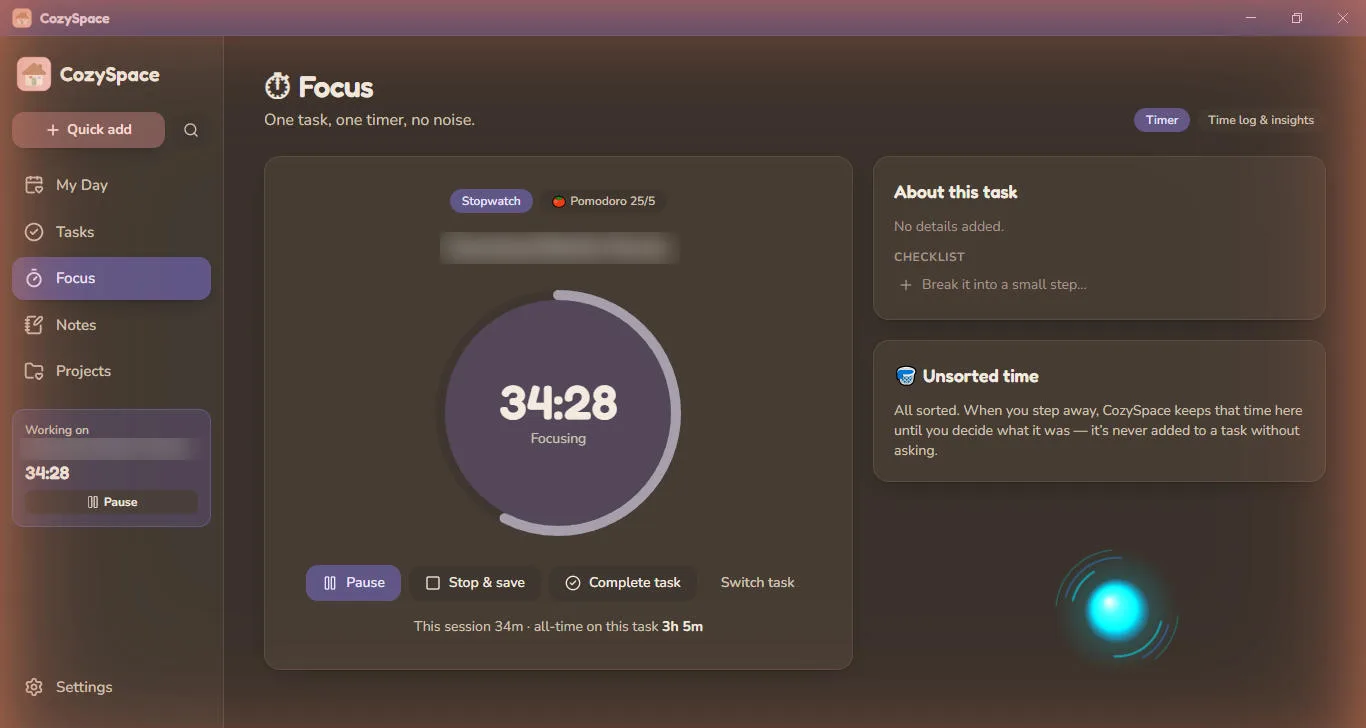
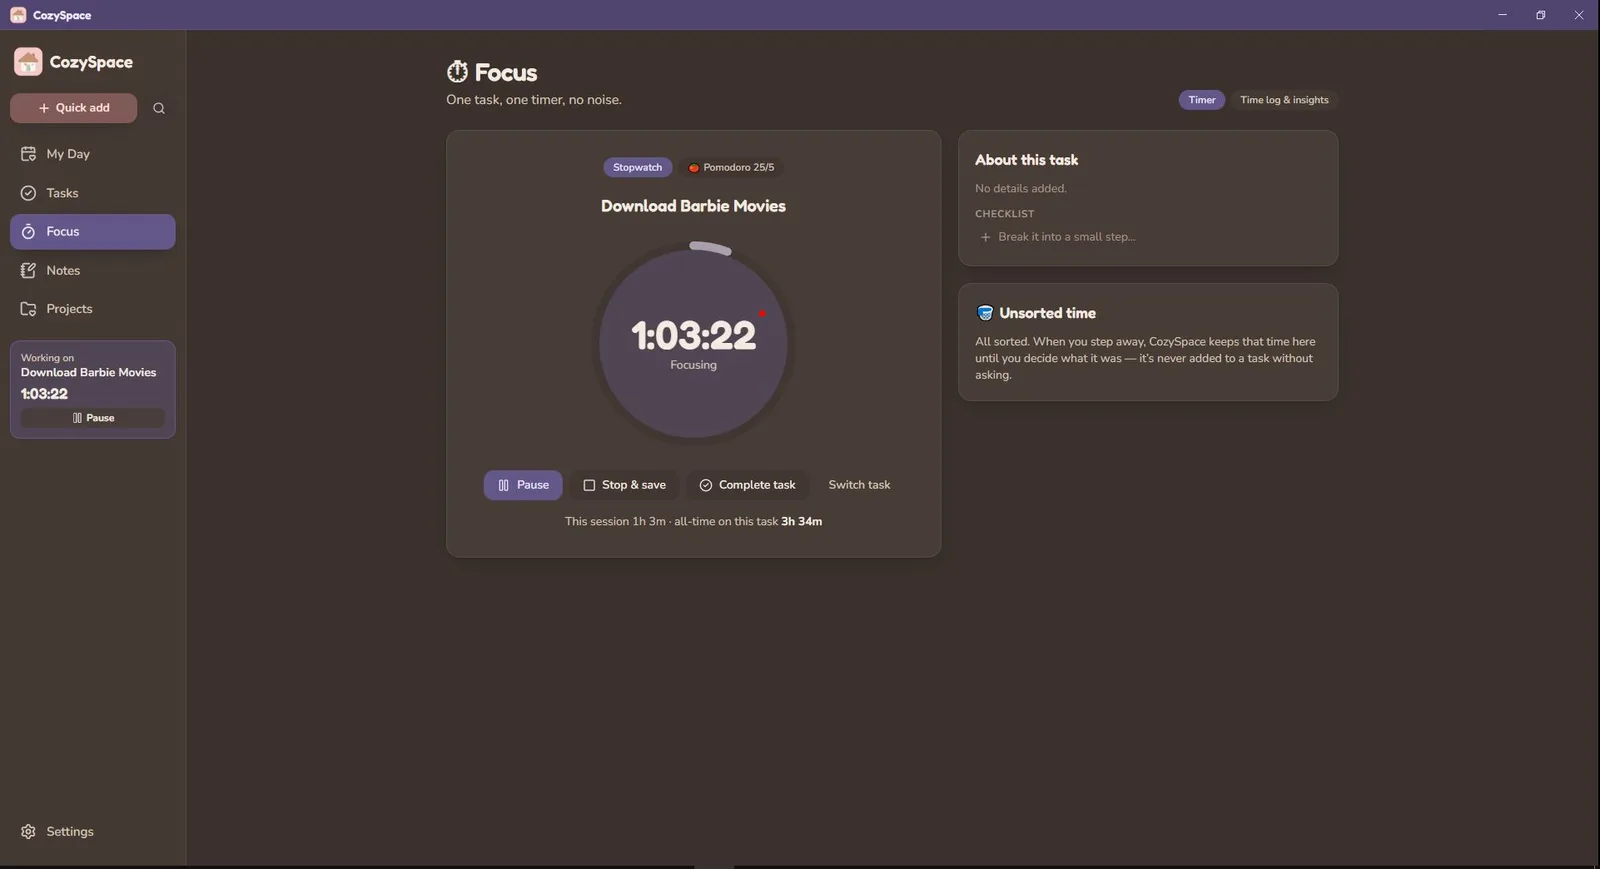
Replace LinkHub, CozySpace and Usage Monitor screenshots with clean captures
Uses Edward's own full-window screenshots (no red edge glow) and adds more
screens: LinkHub All Links and Import Center, CozySpace Tasks, Notes and
Projects, and Usage Monitor History, Insights, Claude Code, Connection and
Settings.

Claude-Session: https://claude.ai/code/session_01Jj6jB6KoW2sGPsH5TV8o2z

diff --git a/script.js b/script.js
@@ -113,8 +113,10 @@ const APPS = [
           "Sorts them into job opportunities, AI resources, learning, and more",
           "Ranks job posts by how well they fit what I'm looking for"],
   stack:["Electron","Node.js","JSON","Data cleanup"],
-  shots:[["linkhub-dashboard.webp","Dashboard: 1,854 links collected, duplicates removed, and best-fit job opportunities"],
-         ["linkhub-jobs.webp","Job Opportunities: ranked by fit, with pay, type, remote setup, and filters"]],
+  shots:[["linkhub-dashboard.webp","Dashboard: 1,854 links collected, duplicates removed, best-fit jobs, and links by category and source"],
+         ["linkhub-jobs.webp","Job Opportunities: ranked by fit, with pay, type, remote setup, and filters"],
+         ["linkhub-all-links.webp","All Links: every unique link with its category, source, and status, searchable and filterable"],
+         ["linkhub-import.webp","Import Center: paste a Messenger conversation or load a file, and it finds and sorts every link"]],
   detail:[["The problem","For months I saved useful links (job posts, tutorials, tools) by sending them to myself on Messenger. There were well over a thousand, with no way to search or sort them."],
    ["What it does",["Imports a Messenger chat export and pulls out every link (1,854 in my first import)",
      "Removes duplicates and sorts links into collections: Job Opportunities, AI & Development, Video Editing, Learning, Tools, Business & Freelancing",
@@ -127,23 +129,32 @@ const APPS = [
           "Focus timer (stopwatch or Pomodoro) that tracks time per task",
           "Idle detection: time away from the PC is set aside, never added to a task without asking"],
   stack:["Electron","Node.js","Git"],
-  shots:[["cozyspace-myday.webp","My Day: today's progress, focused time, waiting tasks, and Top 3"],
-         ["cozyspace-focus.webp","Focus: one task, one timer, with time logged automatically"]],
+  shots:[["cozyspace-myday.webp","My Day: today's progress, focused time, waiting tasks, Top 3, and the task I'm working on now"],
+         ["cozyspace-tasks.webp","Tasks: one calm list with filters (today, upcoming, overdue) and a calendar view"],
+         ["cozyspace-focus.webp","Focus: one task, one timer (stopwatch or Pomodoro), with time logged automatically"],
+         ["cozyspace-notes.webp","Notes: a brain dump to catch thoughts quickly, then turn them into tasks or keep them as notes"],
+         ["cozyspace-projects.webp","Projects: group related tasks and notes and track progress"]],
   detail:[["Why I built it","I wanted one simple, calm place to plan my day and keep focus, built the way I actually work."],
    ["What it does",["Tasks with priorities and due dates, plus list and calendar views",
      "Focus timer with stopwatch and Pomodoro modes, and time insights",
      "Detects when I step away and keeps that time as “unsorted” until I decide what it was",
-     "Notes and projects to group related tasks"]]]},
+     "Brain-dump notes that can be turned into tasks, and projects to group related work"]]]},
  {name:"Claude Usage Monitor", status:"In progress", live:false,
   what:"A Windows app with a floating widget that shows how much of my AI plan's usage limits are left, so I can plan my work.",
   points:["Live session and weekly usage, with reset times",
           "Estimates whether I'll run out before the reset",
           "24-hour usage chart and simple recommendations"],
-  stack:["Windows desktop app","Data visualization"],
-  shots:[["usage-monitor.webp","Overview: session and weekly usage, reset times, 24-hour chart, and recommendations"]],
+  stack:["Windows desktop app","Data visualization","Local data storage"],
+  shots:[["usage-overview.webp","Overview: usage left this session and this week, reset times, a 24-hour chart, and recommendations"],
+         ["usage-history.webp","History: usage over time, daily totals for 30 days, busiest hours, and export to CSV"],
+         ["usage-insights.webp","Insights: tips worked out from my real usage, plus general habits that stretch the limits"],
+         ["usage-claude-code.webp","Claude Code: reads token counts from Claude Code's local logs when it's used on this PC"],
+         ["usage-connection.webp","Connection: where the numbers come from; everything stays on the PC"],
+         ["usage-settings.webp","Settings: start with Windows, check interval, floating widget options, and plan renewal reminders"]],
   detail:[["Why I built it","I use Claude heavily for building apps, so I wanted to see at a glance how much usage I have left, without opening the website."],
    ["What it does",["A small always-on-top widget showing usage left in the current session",
-     "A dashboard with weekly usage, reset times, pace estimates, history, and insights",
+     "A dashboard with weekly usage, reset times, pace estimates, history charts, and insights",
+     "Keeps a local history (exportable to CSV) and reminds me before my plan renews",
      "Designed to support other AI tools like ChatGPT and Gemini later"]]]}
 ];
 (function(){
